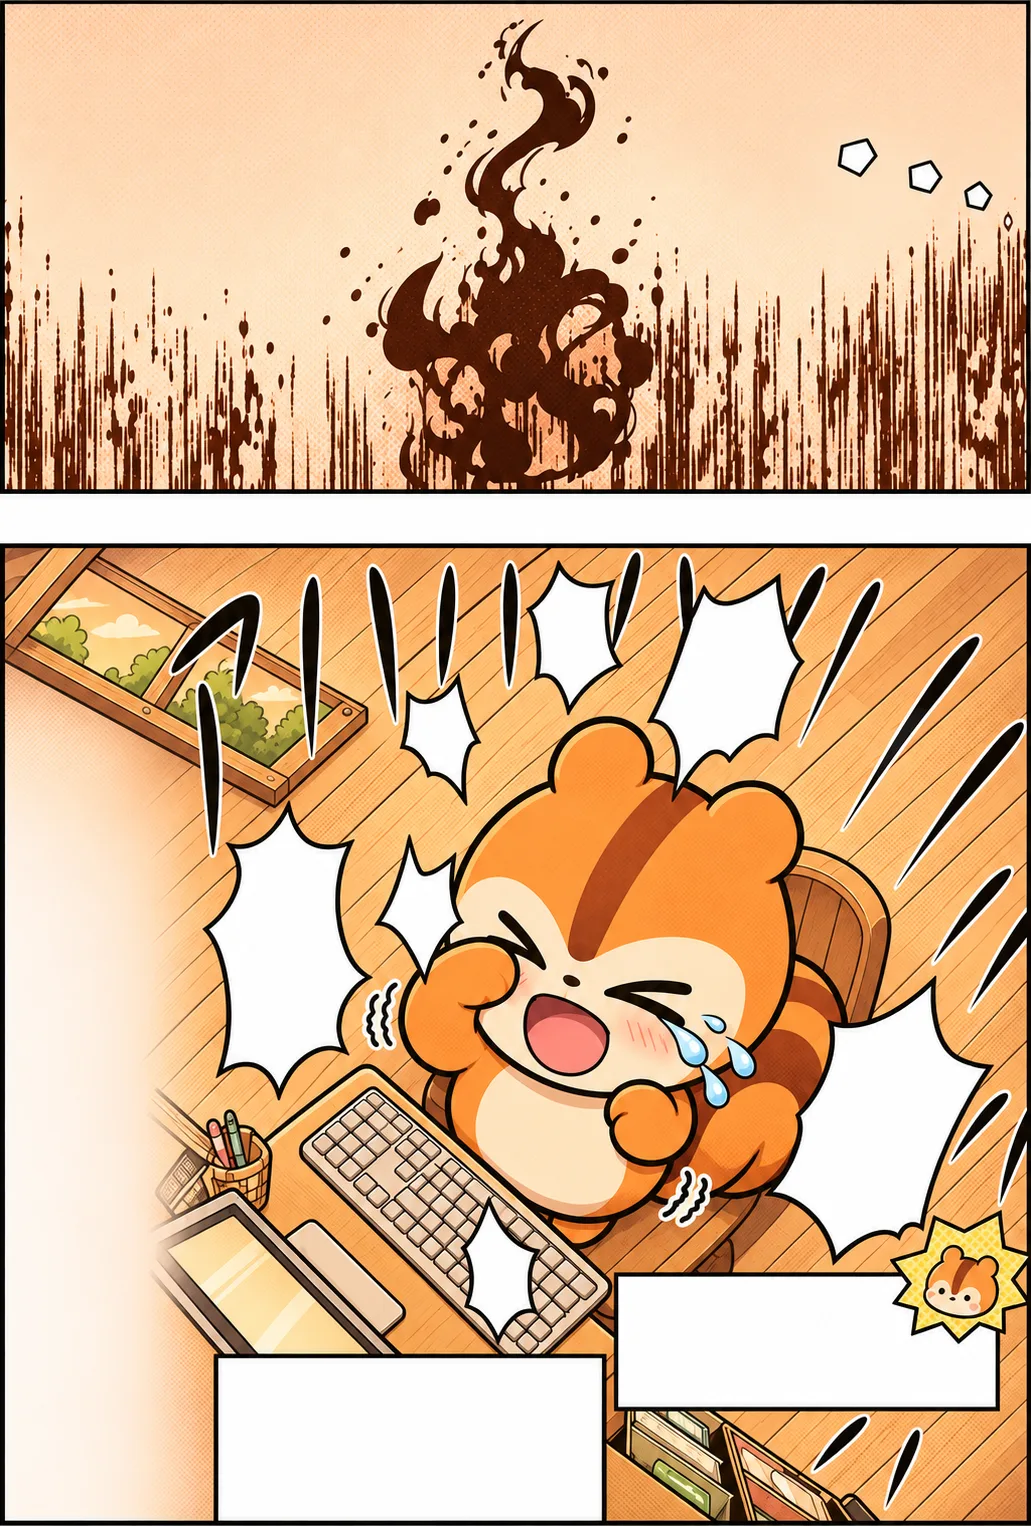
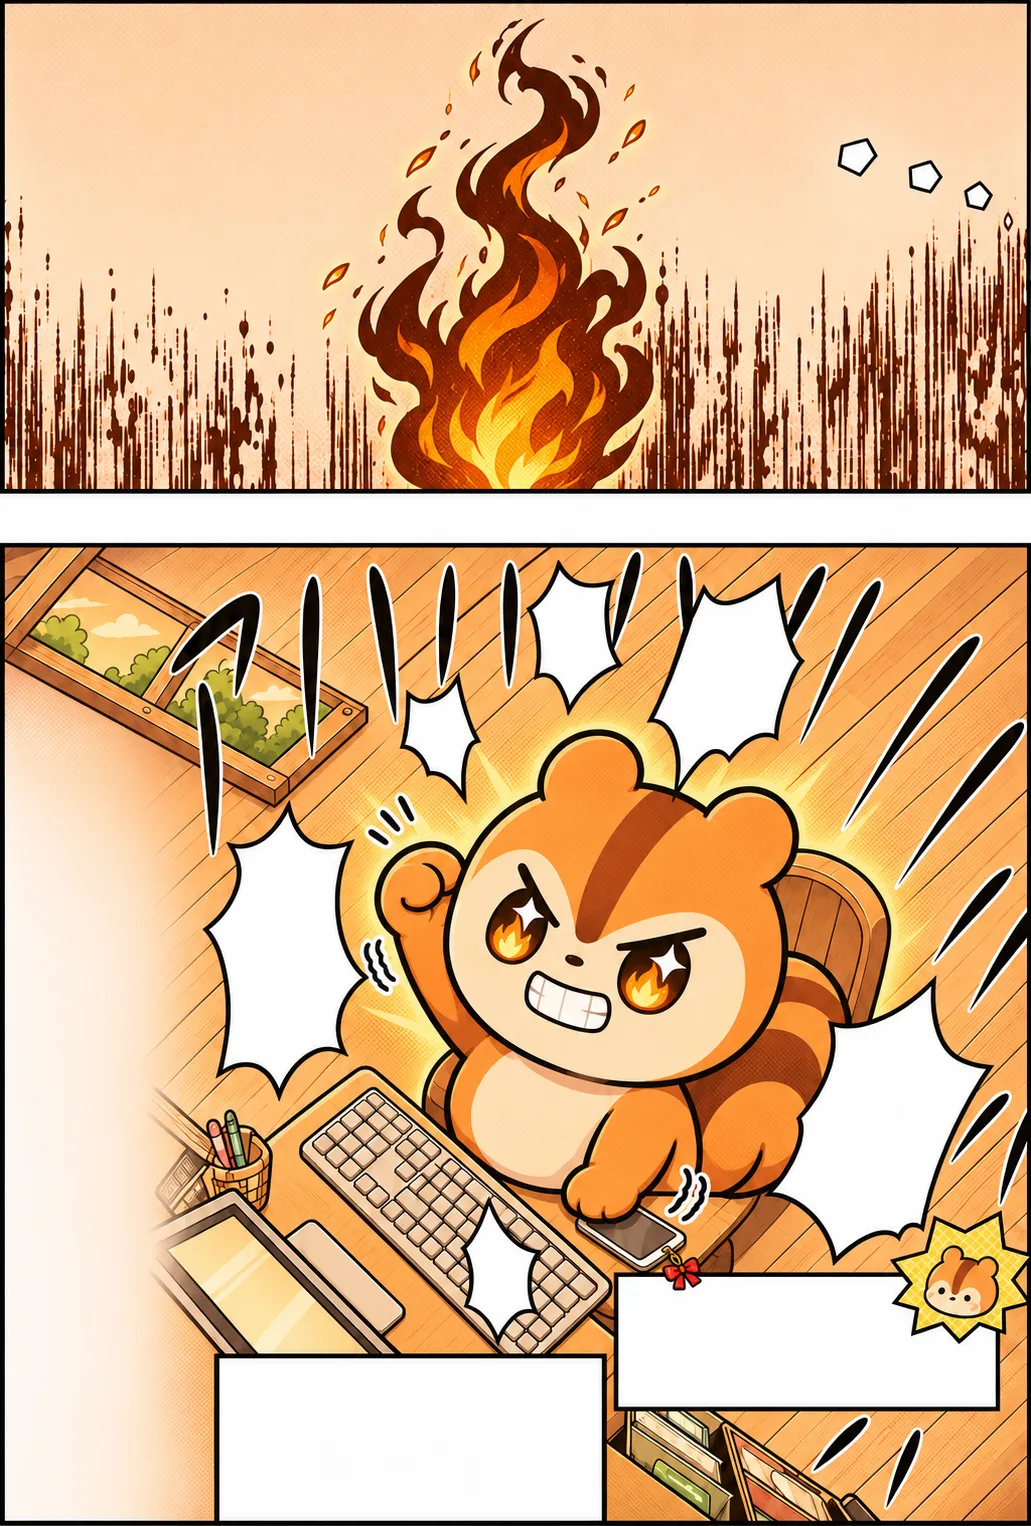
라이트 프롤로그 7쪽을 눈물 없는 다짐으로 다시 그렸다: 눈에 불꽃, 이를 악문 웃음, 치켜든 주먹, 위 칸 먹물은 불길로. 글은 화르륵, 30만쯤이야!!, 좋아…!, 간다!!, 할 수 있어!, 세로 반드시 이겨주겠어!. 이전 그림은 parody_3_v3.png
Claude-Session: https://claude.ai/code/session_01BY9NwdfKM3v9V3XKwzFjcB

diff --git a/src/ui/proto/lite/manga.ts b/src/ui/proto/lite/manga.ts
@@ -215,21 +215,20 @@ export function prologuePages(): Panel[] {
       ],
     },
     {
-      id: 'p3', src: pg3, ar: 1031 / 1526, alt: '위 칸: 먹물이 번지는 어두운 칸. 아래 칸: 위에서 내려다본 책상 앞, 칩멍크가 울면서 웃고 주먹을 쥔다.',
+      id: 'p3', src: pg3, ar: 1031 / 1526, alt: '위 칸: 활활 타오르는 불길. 아래 칸: 위에서 내려다본 책상 앞, 칩멍크가 눈에 불을 켜고 이를 악문 채 주먹을 치켜든다.',
       balloons: [],
       words: [
-        { x: 2, y: 0.5, w: 44, h: 10, t: '주르르', k: 'hollow', fs: 13, rot: -6, d: 0 },
-        { x: 57, y: 1.5, w: 9, h: 4, t: '똑', k: 'out', fs: 3.6, rot: 12, d: 0.2 },
-        { x: 13, y: 12, w: 66, h: 8, t: `${won(d.left)}———`, k: 'out', fs: 9, d: 0.4 },
-        { x: 52, y: 38.5, w: 7, h: 6, t: '흑', k: 'say', fs: 3.2, d: 1 },
-        { x: 65, y: 40, w: 11.5, h: 7, t: '하하!', k: 'say', fs: 3.2, d: 1.15 },
-        { x: 39.5, y: 46, w: 6, h: 5, t: '흑', k: 'say', fs: 3.2, d: 1.3 },
-        { x: 22, y: 57, w: 13, h: 12, t: '아핫\n!!', k: 'say', fs: 3.8, d: 1.45 },
-        { x: 38, y: 55.5, w: 6, h: 5.5, t: '흑', k: 'say', fs: 3, d: 1.6 },
-        { x: 72.5, y: 76.5, w: 7, h: 4, t: '흐끅', k: 'out', fs: 2.6, rot: 8, d: 1.75 },
-        { x: 84, y: 66, w: 10, h: 15, t: '아하핫', k: 'say', v: true, fs: 3.8, d: 1.9 },
-        { x: 47, y: 81, w: 9, h: 6, t: '흑', k: 'say', fs: 3.2, d: 2.05 },
-        { x: 1.5, y: 40, w: 16, h: 57, t: '다갚아줄게!', k: 'out', v: true, fs: 10.5, d: 2.4 },
+        { x: 2, y: 0.5, w: 44, h: 10, t: '화르륵', k: 'hollow', fs: 13, rot: -6, d: 0 },
+        { x: 57, y: 1.5, w: 9, h: 4, t: '파직', k: 'out', fs: 3.6, rot: 12, d: 0.2 },
+        { x: 13, y: 12, w: 66, h: 8, t: `${won(d.left)}쯤이야!!`, k: 'out', fs: 9, d: 0.4 },
+        { x: 51.5, y: 38.5, w: 8, h: 6, t: '좋아\n…!', k: 'say', fs: 2.8, d: 1 },
+        { x: 65, y: 40, w: 11.5, h: 7, t: '간다!!', k: 'say', fs: 3.2, d: 1.15 },
+        { x: 39.5, y: 46, w: 6, h: 5, t: '흐흐', k: 'say', fs: 2.8, d: 1.3 },
+        { x: 22, y: 57, w: 13, h: 12, t: '할 수\n있어!', k: 'say', fs: 3.8, d: 1.45 },
+        { x: 72.5, y: 76.5, w: 7, h: 4, t: '불끈', k: 'out', fs: 2.6, rot: 8, d: 1.75 },
+        { x: 84, y: 66, w: 10, h: 15, t: '이긴다!', k: 'say', v: true, fs: 3.8, d: 1.9 },
+        { x: 46, y: 81, w: 9, h: 6, t: '후욱', k: 'say', fs: 2.6, d: 2.05 },
+        { x: 1.5, y: 40, w: 16, h: 57, t: '이겨주겠어!', k: 'out', v: true, fs: 10.5, d: 2.4 },
         { x: 76, y: 50, w: 22, h: 6.5, t: '반드시', k: 'out', fs: 6.6, d: 2.9 },
         { x: 61, y: 79.4, w: 14, h: 4, t: '목표!', k: 'sfx', fs: 4.4, rot: -4, cls: 'ink', d: 3.2 },
         { x: 61, y: 84.5, w: 25, h: 7, t: `날다람쥐코인 200배\n빚 ${n(d.left + f.unit)} 다 갚기`, k: 'box', fs: 2.6, d: 3.3 },

diff --git a/tests/ui/lite_ui.test.ts b/tests/ui/lite_ui.test.ts
@@ -21,7 +21,7 @@ describe('라이트 도입 만화(패러디 일곱 쪽)', () => {
   it('숫자는 엔진 값: 코인 빚 30만, 첫 대출과 그 이자, 시작 잔액, 빚 전부', () => {
     const all = textsOf(ps).join('\n');
     const coin = LITE.start.debts.shark1, unit = lenderById.shark1.borrowUnit!;
-    expect(all).toContain(`${coin / 10000}만———`);
+    expect(all).toContain(`${coin / 10000}만쯤이야!!`);
     expect(all).toContain(`빌린 돈 +${unit.toLocaleString('ko-KR')}`);
     expect(all).toContain(`이자 +${Math.ceil(unit * lenderById.shark1.rate).toLocaleString('ko-KR')}`);
     expect(all).toContain(`${unit.toLocaleString('ko-KR')} 도토리`);

diff --git a/docs/gdd/LITE_MANGA.md b/docs/gdd/LITE_MANGA.md
@@ -29,9 +29,9 @@
 | 4 | 7 (세로 표제지) | `parody_7` | 「시간을 되돌려 주세요」, 세로 「이루어진다면」, 빨간 「하아」 넷, 계단 해설 칸 「어째서 사람은 그 순간이 올 때까지」 「절망의 때에 서 있다는 걸 눈치채지 못하는 걸까」, 흐린 「빌어라。」, 「신연재!!!」, 로고 「FRX Fighter CHIPMUNK」 + 심전도 + 「선물의 숲」 + 「제1화 기도」 |
 | 5 | 5 (흑백) | `parody_5` | 큰 「ㅅ」 「!?」, 「나한테 10만 더 빌려서」 「그 돈으로 사는 거야」, 흘러내리는 「~」 다섯, 「……」 둘, 칩멍크 「무슨 소리야 빌릴 리가 없잖아…」, 대부 「그래…?」, 반전 상자 「그리고 빌렸다. 빌린 돈 +100,000 / 정산마다 이자 +1,300」 |
 | 6 | 4 (흑백) | `parody_4` | 공책 손글씨 「1배로 산다」 「10% 올라야」 110 / +10 / 100, 「200배로 산다!!」 「0.05%만 올라도」 100.05 / +10 / 100, 「같은 이익!!」, 「판돈을 늘려서」, 「작은 움직임에도 이익을 낼 수 있게 조정하는 수밖에……!」. 숲 마을 풍경(나무 밑동 집), 도토리 버거 가게: 친구(보이지 않음) 「맞다 칩멍크, 200배까지 되는 데 찾았어」, 칩멍크 「에! 정말~?」 |
-| 7 | 3 (흑백) | `parody_3` | 속 빈 「주르르」, 「똑」, 외침 「30만———」(엄마 자리), 「흑」 넷 「하하!」 「아핫!!」 「흐끅」 세로 「아하핫」, 세로 다짐 「다갚아줄게!」 + 「반드시」, 목표 상자(WIN 자리) 「목표!」 「날다람쥐코인 200배 / 빚 400,000 다 갚기」, 잔액 상자 「칩멍크 FRX 잔액 100,000 도토리」, 「꽉!」 → 누르면 바로 첫 거래 |
+| 7 | 3 (흑백) | `parody_3` | 위 칸 불길에 속 빈 「화르륵」, 「파직」, 외침 「30만쯤이야!!」, 풍선 「좋아…!」 「간다!!」 「흐흐」 「할 수 있어!」 「후욱」, 세로 「이긴다!」, 주먹 옆 「불끈」, 세로 다짐 「이겨주겠어!」 + 「반드시」, 목표 상자(WIN 자리) 「목표!」 「날다람쥐코인 200배 / 빚 400,000 다 갚기」, 잔액 상자 「칩멍크 FRX 잔액 100,000 도토리」, 「꽉!」 → 누르면 바로 첫 거래 |
 
-3쪽은 승리가 아니라 첫 거래 직전의 다짐이다(주인 정정). 원작의 WIN 상자 자리는 목표 상자, 잔액 상자는 빌린 판돈이 들어온 지금 잔액이다.
+3쪽은 승리가 아니라 첫 거래 직전의 다짐이다(주인 정정). 4차(주인: 「다짐이면 안 우는 건 어때?」): 울다 웃던 칩멍크를 눈물 없는 다짐으로 다시 그렸다. 눈동자에 불꽃, 이를 악문 웃음, 치켜든 주먹, 책상 위 리본 폰. 위 칸 먹물은 불길이 됐다. 이전 그림은 `parody_3_v3.png`. 원작의 WIN 상자 자리는 목표 상자, 잔액 상자는 빌린 판돈이 들어온 지금 잔액이다.
 
 숫자의 출처: 30만은 `data/lite.json` 코인 빚, 10만과 1,300 은 `data/lenders.json` 오소리 사무소의 한 번 빌리기와 금리, 잔액 100,000 은 그 첫 대출, 빚 400,000 은 둘의 합. 평가손익 −291,800 은 빌린 30만이 거의 다 녹은 값(코인 빚의 97%)이다. 값 눈금 100.x 는 날다람쥐코인 기준가 100.
 
